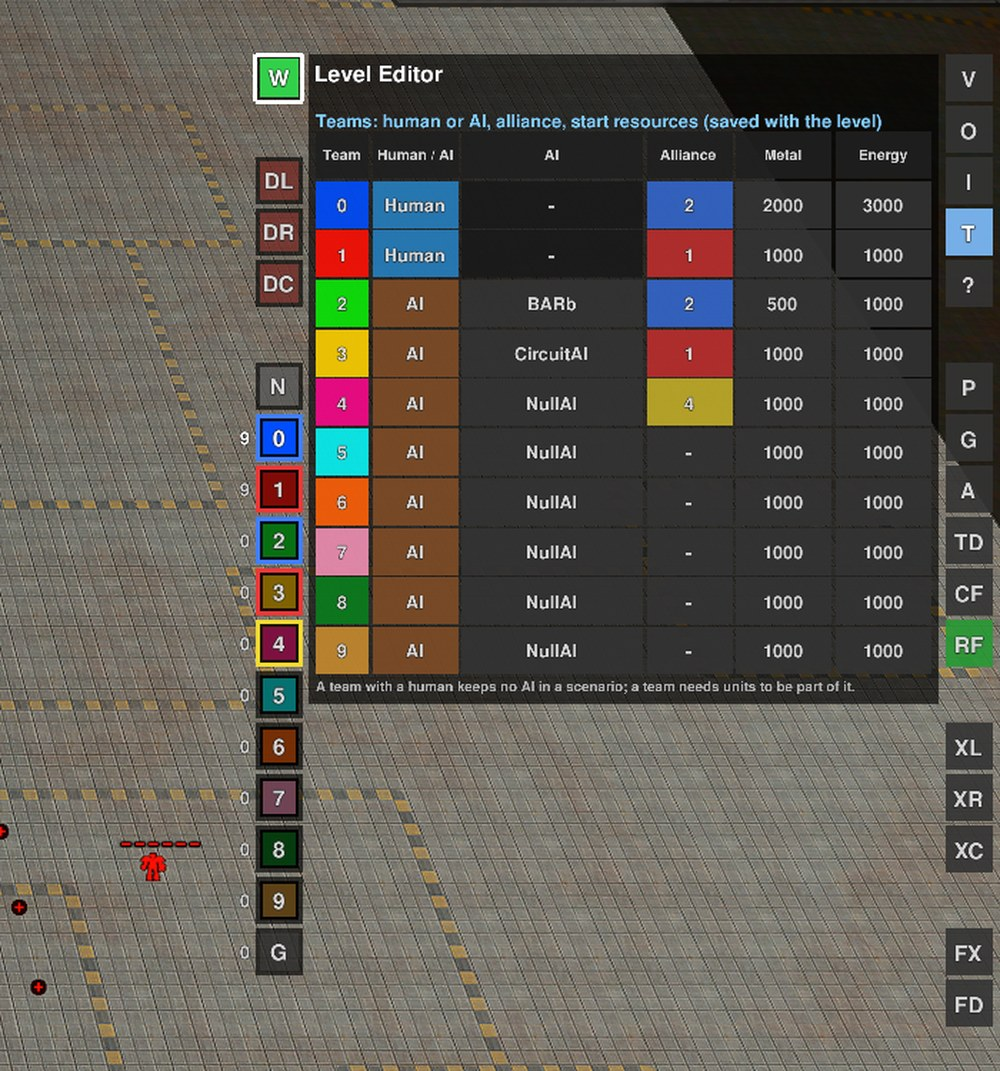
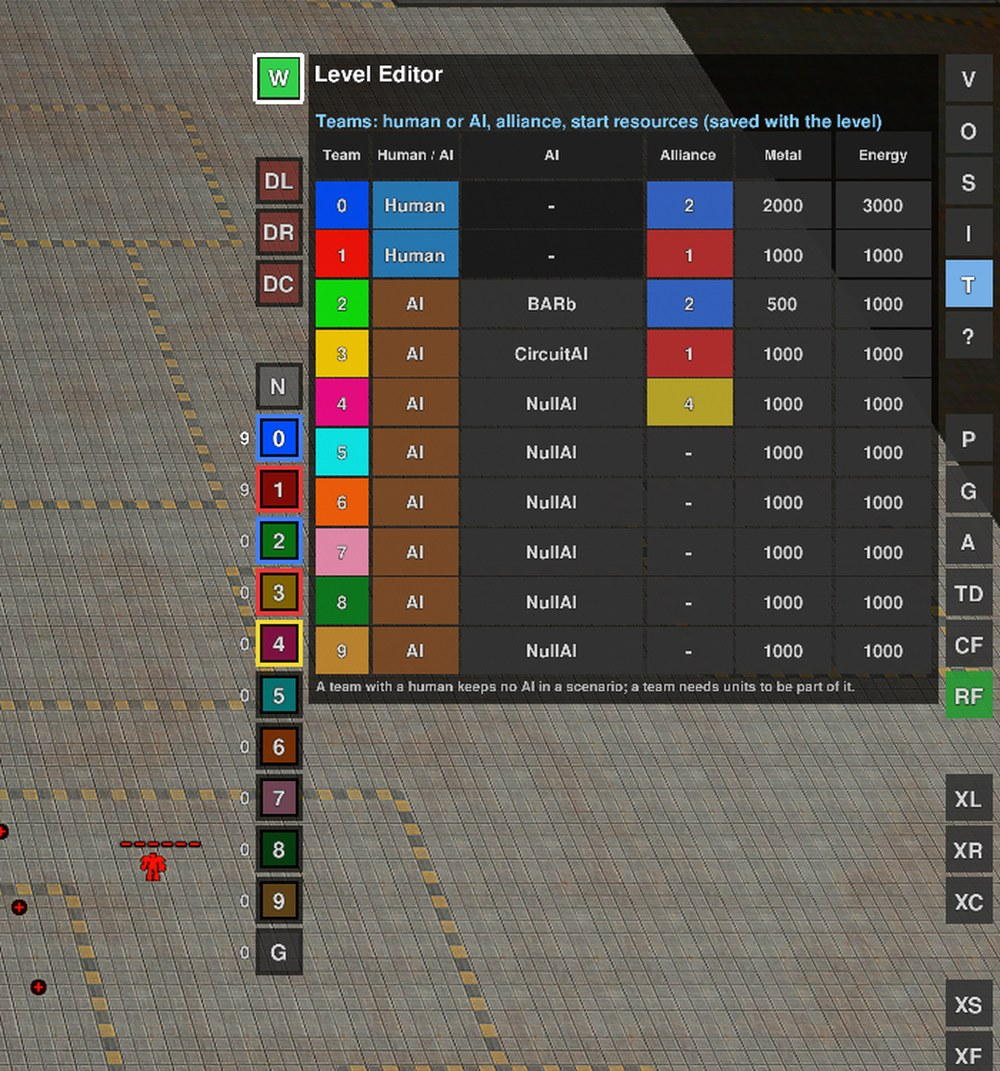
Docs pictures retaken with the button S in the column; new picture of the Save page (scene added to zz_shots_all.lua); screenshot notes and usage page updated
Claude-Session: https://claude.ai/code/session_01QeCYKn7fqMf4y4C8NkAq1r

Changed region(s): [[0.93, 0.493, 1.0, 1.0], [0.93, 0.1541, 1.0, 0.4622]]

diff --git a/docs/screenshots.md b/docs/screenshots.md
@@ -3,7 +3,7 @@
 Notes on what each picture shows, so they can be retaken after a change of the layout.
 
 **Rules for all Level Editor pictures**
-- They show the **whole widget**: the strip at the left of the menu (W, DL, DR, DC, L, R, S, N, teams, G), the menu, the button column at the right (V, O, I, T, ?, P, G, A, TD, CF, RF, XL, XR, XC, XS, XF, FX, FD) and, where the mouse pointer rests on a tile, the **3D preview** left of the strip with the **info lines** below the menu.
+- They show the **whole widget**: the strip at the left of the menu (W, DL, DR, DC, L, R, S, N, teams, G), the menu, the button column at the right (V, O, S, I, T, ?, P, G, A, TD, CF, RF, XL, XR, XC, XS, XF, FX, FD) and, where the mouse pointer rests on a tile, the **3D preview** left of the strip with the **info lines** below the menu.
 - Where it matters the picture also shows a part of the map with the result of the action (generated units, a maze, a corridor with route and towers, ...).
 - Taken in a window of 3000 x 1500 pixels (isolated test instance, see below), cut to x 940 ... 3000, y 0 ... 1260 (the chat lines at the top left are part of the cut on purpose) and scaled to 1600 pixels width, JPEG quality 88.
 - Map: "Hooked 1.1" for the older pictures, since 2026-10-28 "Full Metal Plate 1.7" (flat; see below), Armada, team 0.
@@ -22,8 +22,11 @@ Notes on what each picture shows, so they can be retaken after a change of the l
 | `area-attack.jpg` | Area attack (XR), `test-data\tools\arena_test.ps1 -Widget zz_area_shot.lua` (map "Full Metal Plate 1.7", window 2400 x 1300, interface hidden, cut to x 560 ... 1840, y 100 ... 1250, scaled to 1280 pixels width): 16 artillery tanks and long range rocket launchers (Arty and Merl, the Arena generates them) after an XR rectangle; the widget draws the rectangle, the target point of every unit and a thin line to it; taken 180 frames after the order, when the shells hit. |
 | `focus-attack.jpg` | Focus attack (XF), the same widget with `MODE = "focus"` (enemy: Thud): four enemies get five units each (colors), the other six (gray rings) come next. All enemies are alike, so the order of danger is the order of distance: the nearest come first. |
 | `arena-lineup.jpg` | The same armies with the interface hidden (whole screen, scaled to 1600 pixels width): shows only the formation. |
+| `level-editor-save.jpg` | Save page (button S), taken 2026-11-04 in the same run as the others (`zz_shots_all.lua`, scene "save"), cut to x 1500 ... 2400, y 0 ... 1300 and scaled to 1000 pixels width: name field with the suggested name, Save as new, sort buttons A-Z / Recent, the list of the saved levels (current level in blue) with Load and Save; the page is tall enough to reach down to the Gaia button of the team strip. |
 | `level-editor-scenario.jpg` | Scenario page (button I) of a level with a battle: title "Hold the Plateau", roles, tech, AI, win condition, start resources (the picture is from before 2026-10-28; the page has no roles, tech, AI and resources any more, they moved to the page T), grace period 2:30, ID; the map shows the plateau and the Cortex base. |
 | `level-editor-teams.jpg` | Teams page (button T): ten rows; teams 0 and 1 humans in alliance 2 (blue), teams 2 and 3 AIs (BARb, CircuitAI) in alliance 1 (red), team 4 NullAI in alliance 4 (yellow), the others NullAI without alliance; team 0 with 2000 metal and 3000 energy, team 2 with 500 metal. The team buttons at the left show the frames in the colors of the alliances. `test-data	ools\zz_teams.lua` (`arena_test.ps1 -Widget zz_teams.lua`), window 2400 x 1300, cut to x 1700 ... 2400, y 40 ... 790, scaled to 1000 pixels width. Taken 2026-10-28. |
+
+**Retaken 2026-11-04 (after the button S was added; the button column shows S):** all the pictures of the run below, now with the Save page (`level-editor-save.jpg`), cut as before.
 
 **Retaken 2026-10-28 (after the teams, the alliance frames, the green buttons, Start / Stop and the Arena):** `level-editor-place-units.jpg`, `level-editor-generate-units.jpg`, `level-editor-generate-maze.jpg`, `level-editor-tower-defense.jpg`, `level-editor-scenario.jpg`, `level-editor-capture-the-flag.jpg`, `level-editor-reclaim-the-fame.jpg`, `level-editor-arena.jpg`, `arena-lineup.jpg` and `level-editor-teams.jpg`. All of them come from **one run** of `LevelEditor	est-data	ools\arena_test.ps1 -Widget zz_shots_all.lua -Map "Full Metal Plate 1.7"` (window 2400 x 1300; the widget plays the scenes through clicks and real drags; the demo levels `demo_td_serpentine`, `demo_ctf_crossroads` and `demo_rtf_crystal_fields` are loaded for the game mode pictures), cut to x 450 ... 2400, y 0 ... 1120 and scaled to 1600 pixels width (teams: x 1700 ... 2400, y 40 ... 790, 1000 pixels; the lineup: the whole screen). They show the ten team buttons with the alliance frames (teams 0 and 2 in alliance 2, teams 1 and 3 in alliance 1, team 4 in alliance 4), the flat map "Full Metal Plate 1.7" (before: "Hooked 1.1" for some) and **no mouse pointer on a tile** (the test cannot hold the pointer over a tile: no 3D preview and no info lines in these pictures).
 - **Not retaken:** `level-editor-place-blueprints.jpg` (the repository has no sample blueprints for the test; it still shows the old strip with three team buttons), the demo pictures `demo-*.jpg` and the pictures that do not show the strip (BluePrinter, `area-attack.jpg`, `lanPlay.png`, `lanCopilot.png`).

diff --git a/docs/level-editor-usage.md b/docs/level-editor-usage.md
@@ -59,6 +59,7 @@ Turns a level into a ZIP that others play with their own BAR.
 
 ![Scenario info (button I)](level-editor-scenario.jpg)
 ![Teams (button T)](level-editor-teams.jpg)
+![Saved levels (button S)](level-editor-save.jpg)
 
 Details: [scenario builder](../LevelEditor/scenario/README.md)
 
